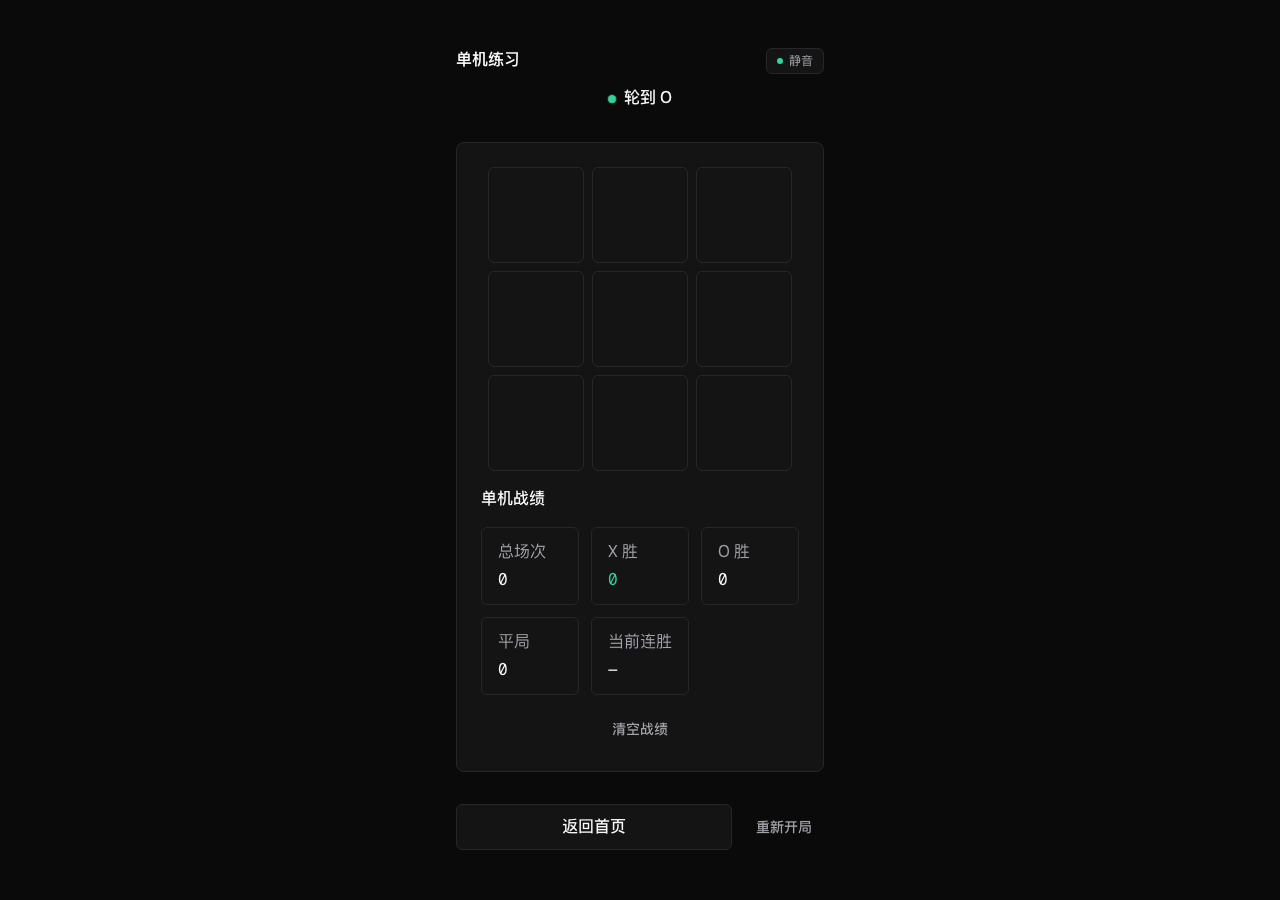
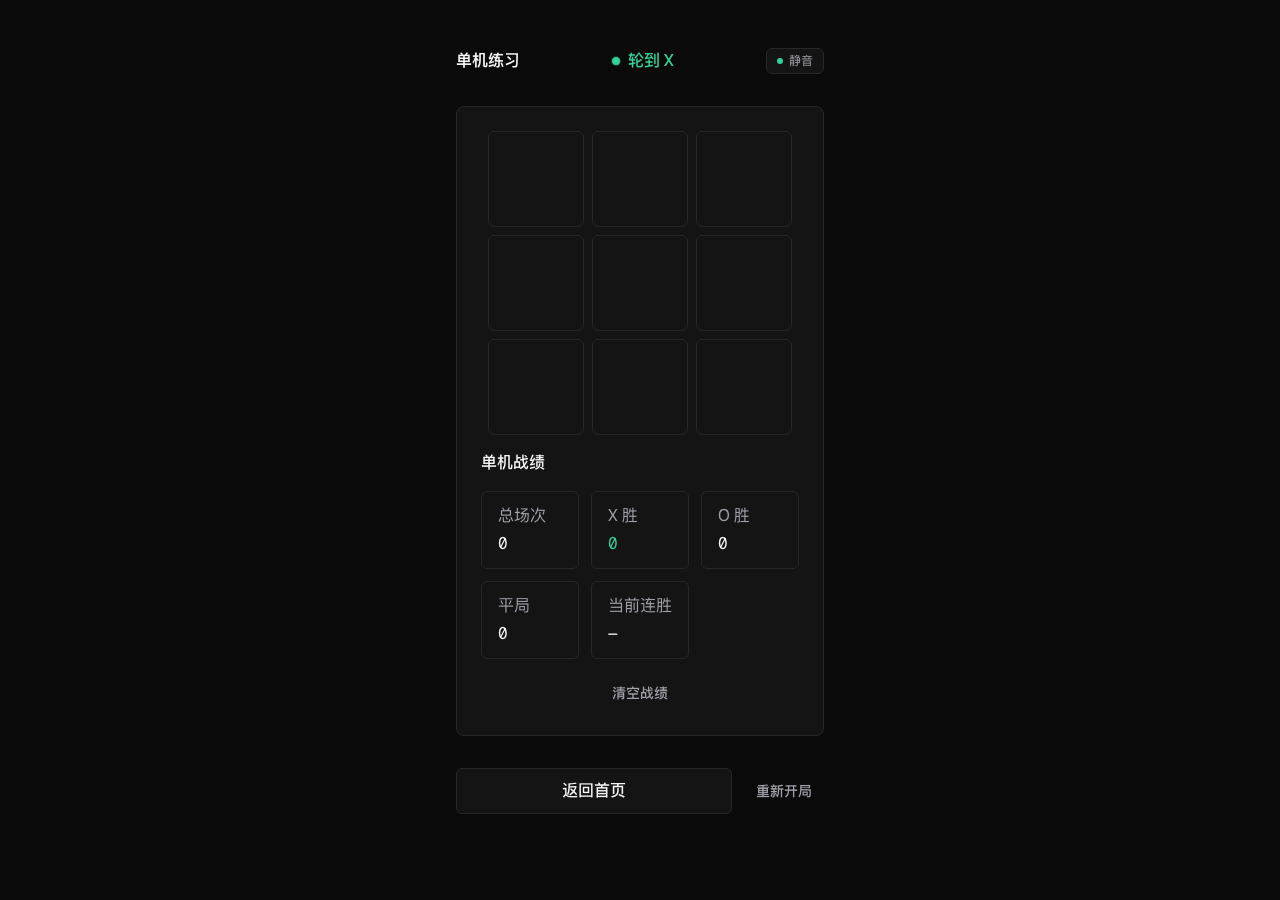
docs(assets+design): 截图重制 + DESIGN.md header 组合契约行
WHAT:
- docs/screenshots/{home,board,result,solo}.png 四图全量重制，1280×900 暗色
  桌面视口，由 production build (pnpm build && pnpm start) + Playwright 探针
  tests/qa/visual-qa.mjs 重新落图——与本次单行 header 一致。
- DESIGN.md §4 (Components) 新增「Header composition contract」表：
  - /play /solo：`[h1 compact | StatusBarClient inline | SoundToggle]`
    单行；h1 为 `text-h2 font-semibold`；StatusBar 为行内 pill。
  - /result：`[ResultBanner h1 | SoundToggle]`；result-headline 升格为
    h1（aria-live=assertive 保留）；删「本局结束」冗余。
  - 桌面 ≥1280px 与移动 375×667 均适用；header boundingBox 26px (was 62/62/90)。
  - 每页恰一 h1。

WHY:
- 截图必须与 commit 2 代码同步：之前四图记录的是 header 双行的桌面截图，
  与当前单行布局冲突；README/预览表使用这些图，必须刷新避免文档与生产
  UI 失真。
- DESIGN.md 是设计契约的单一事实源（DESIGN.md §0 同 §9 双引用）；
  新增 header 组合契约行让任何后续改动有明确参照物。
- 文案说明 why-not-what：删「本局结束」与 promote result-headline 同根，
  单 h1 是 result 页最自然的形式（语义 = 「谁赢了」）。

HOW:
- 截图：从 .omx/evidence/scaffold-qa/{01-home,02-play-start,03-result,06-solo}.png
  拷到 docs/screenshots/{home,board,result,solo}.png（视觉 QA 证据目录是
  探针的原始落点；docs/screenshots 是公开文档展示目录，沿用既有映射）。
- DESIGN.md：在 §4 (Components) 的 primitives 表下方新增一段 Markdown
  表格 + 单段说明。文本措辞参考 commit 1+2 的 WHAT/WHY/HOW 表达，
  字段名（h1 slot / testid / 字体 / 高度）与代码注释保持一致。

Constraint: 截图只刷新不替换分辨率；DESIGN.md 改动限于 §4 新增一节；
不动 README/动效/无障碍段；token 名（text-h2 / text-small / flex-*）与
代码完全一致，不引入新令牌。

Rejected: 在 README 增「移动版视图」截图区——属于 doc 范围扩张；
本次只同步既有 docs/screenshots 四图。

Rejected: 把 header 组合契约拆到独立 .md 文件——DESIGN.md 是契约单源；
新增文档会破坏读者路径。
[…]

diff --git a/DESIGN.md b/DESIGN.md
@@ -71,6 +71,23 @@
 | `StatsCard` | — | `label`, `value` |
 | `StatusBar` | — | `currentPlayer`, `gameOver?`, `winner?` |
 
+**Header composition contract** (added by ulw-mobile-one-line-ux plan):
+
+| Route | Composition (single flex-row) | h1 slot | testid |
+| --- | --- | --- | --- |
+| `/` | (no single-line header — home is the score-cards layout) | n/a | n/a |
+| `/play` | `[h1 compact | StatusBarClient inline | SoundToggle]` | "游戏中" (`text-h2 font-semibold`) | `status-bar` / `status-text` |
+| `/solo` | `[h1 compact | StatusBarClient inline | SoundToggle]` | "单机练习" (`text-h2 font-semibold`) | `status-bar` / `status-text` |
+| `/result` | `[ResultBanner h1 | SoundToggle]` | `result-headline` is the h1 | `result-headline` (aria-live=assertive) |
+
+Each row is a single `flex flex-row items-center justify-between gap-3` line. The h1
+slot is `text-h2 font-semibold` (compact) on `/play` and `/solo`; on `/result` the
+h1 is `result-headline` itself (`text-h1 font-display font-medium`) because the
+redundant `<h1>本局结束</h1>` was dropped during this pass. `StatusBar` is the
+inline-flex pill variant (`text-small`, `whitespace-nowrap`) so the row's tallest
+slot is the title, not the status text. `SoundToggle` keeps its own padding. Mobile
+375×667 header boundingBox: 26px (was 62/62/90). Exactly one h1 per page.
+
 **Implementation rule**: every primitive MUST use the tokens above; no inline hex.
 
 ## 5. Motion
